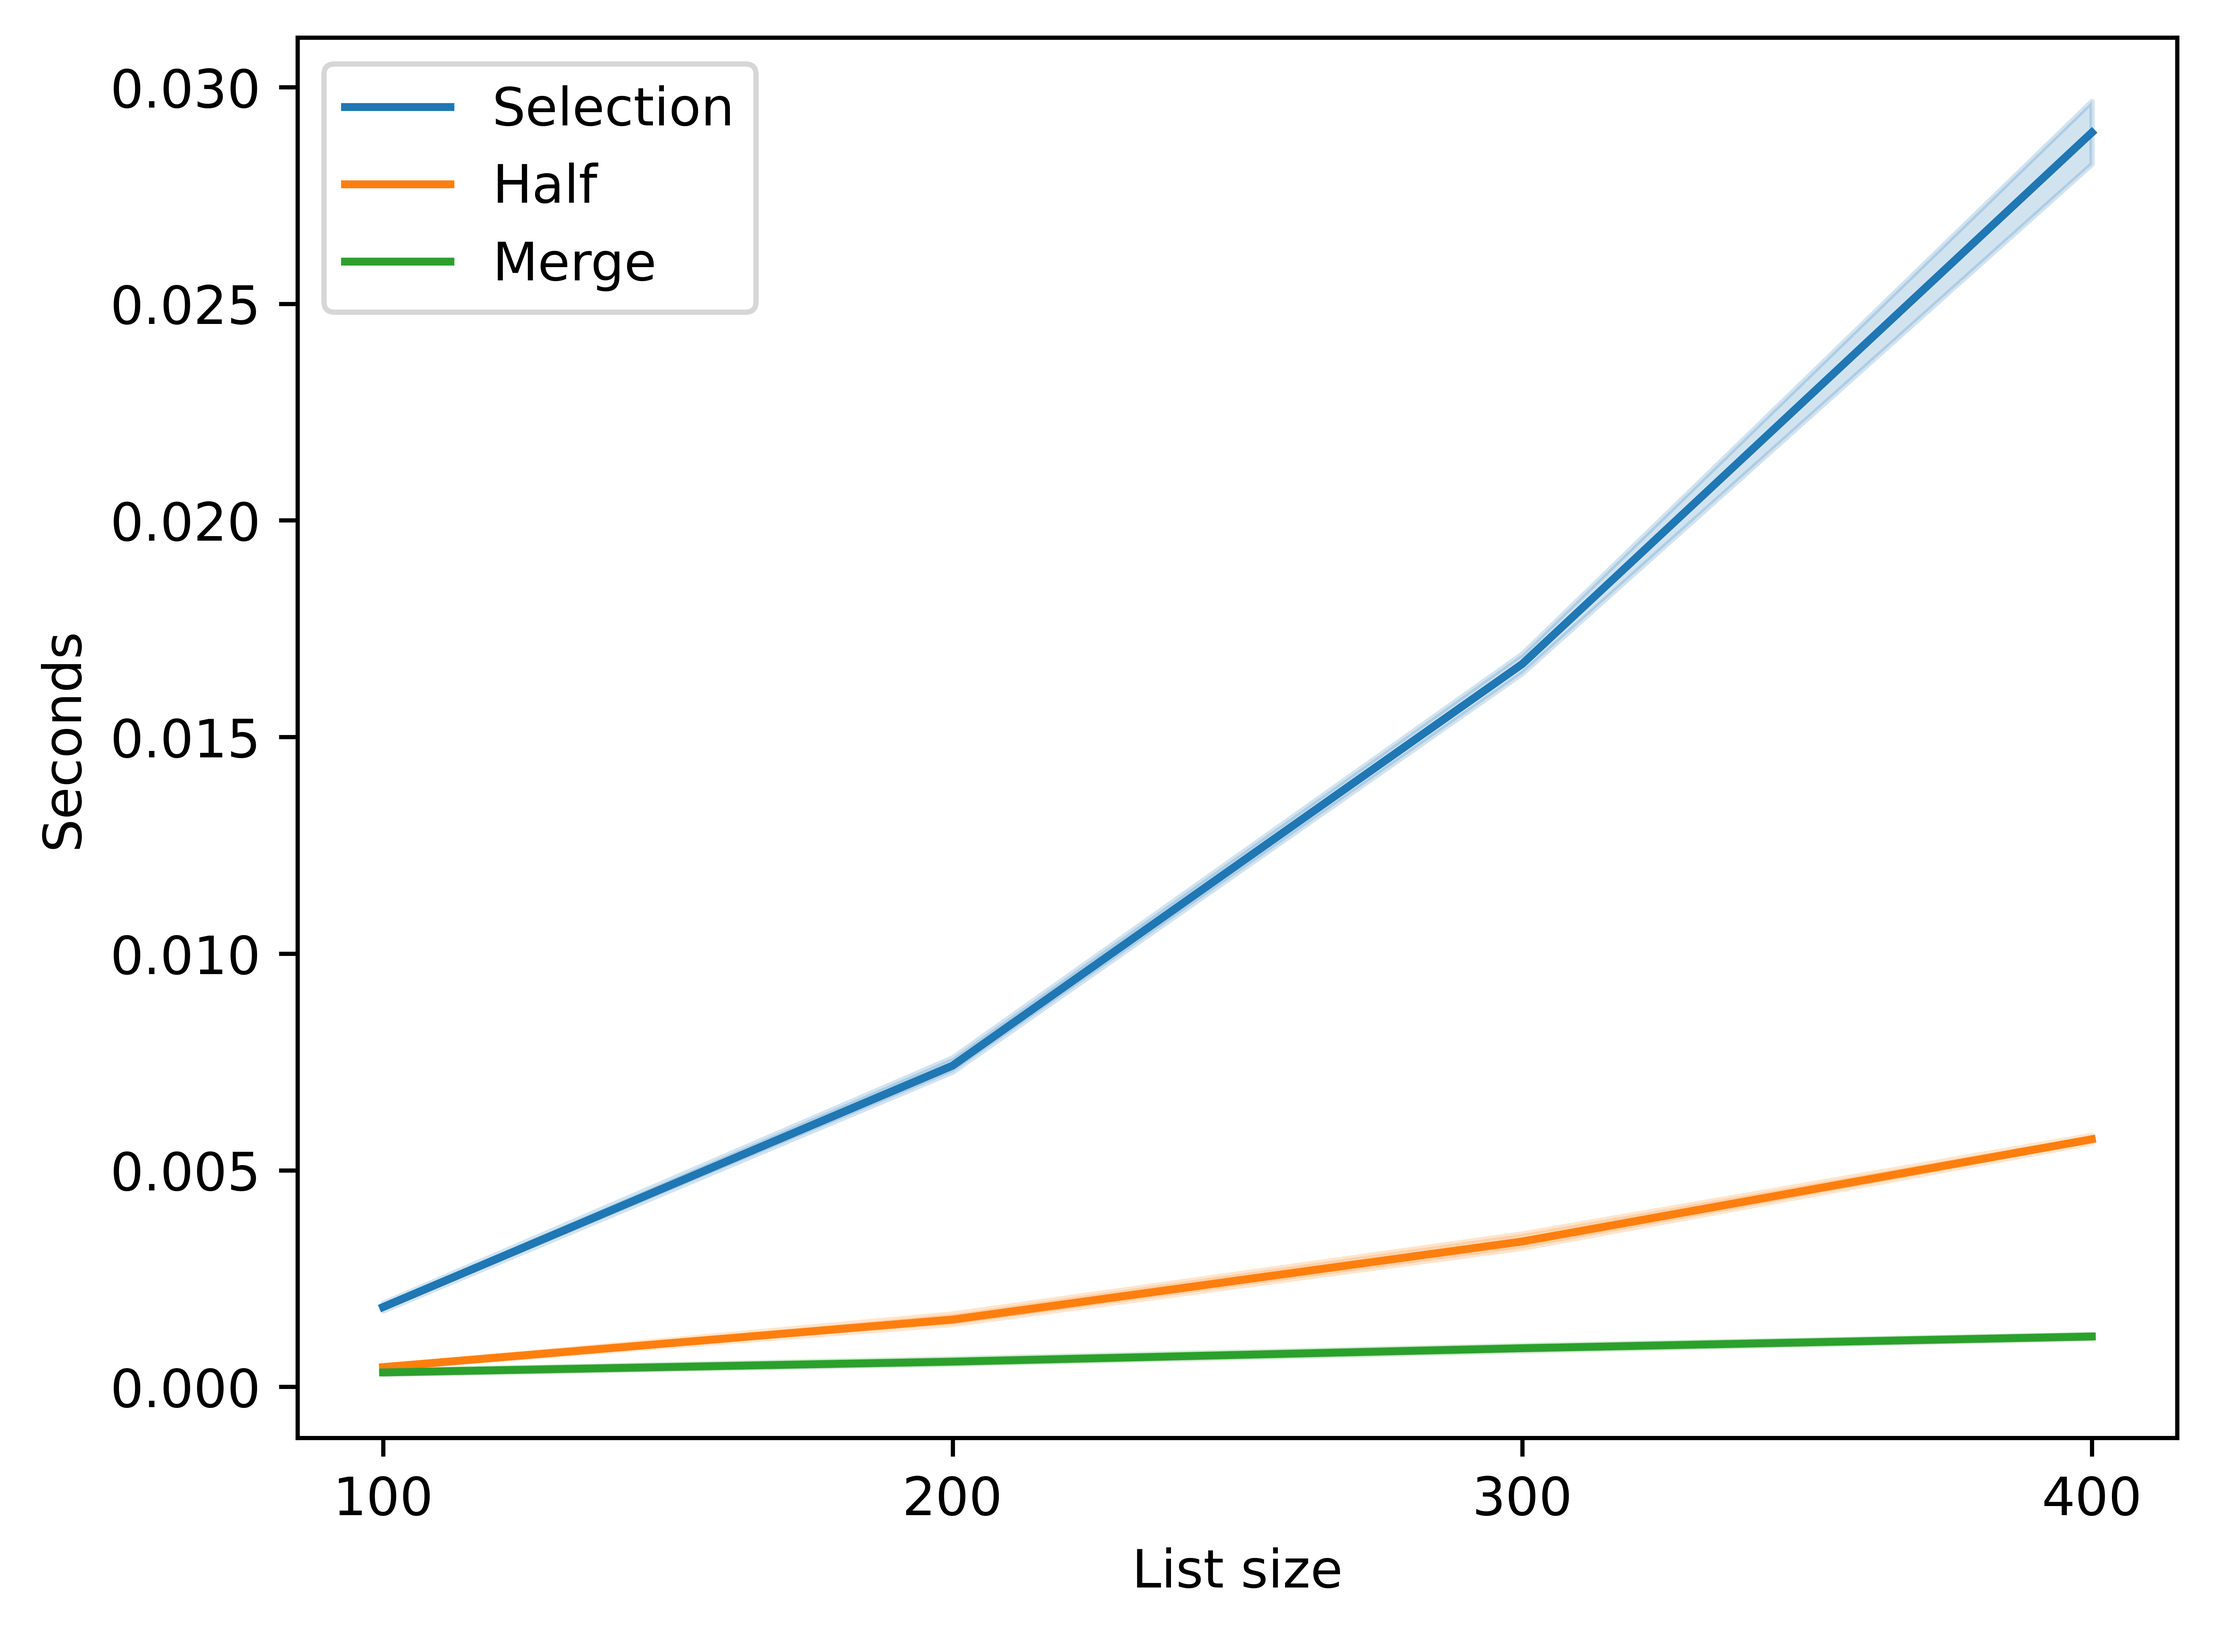
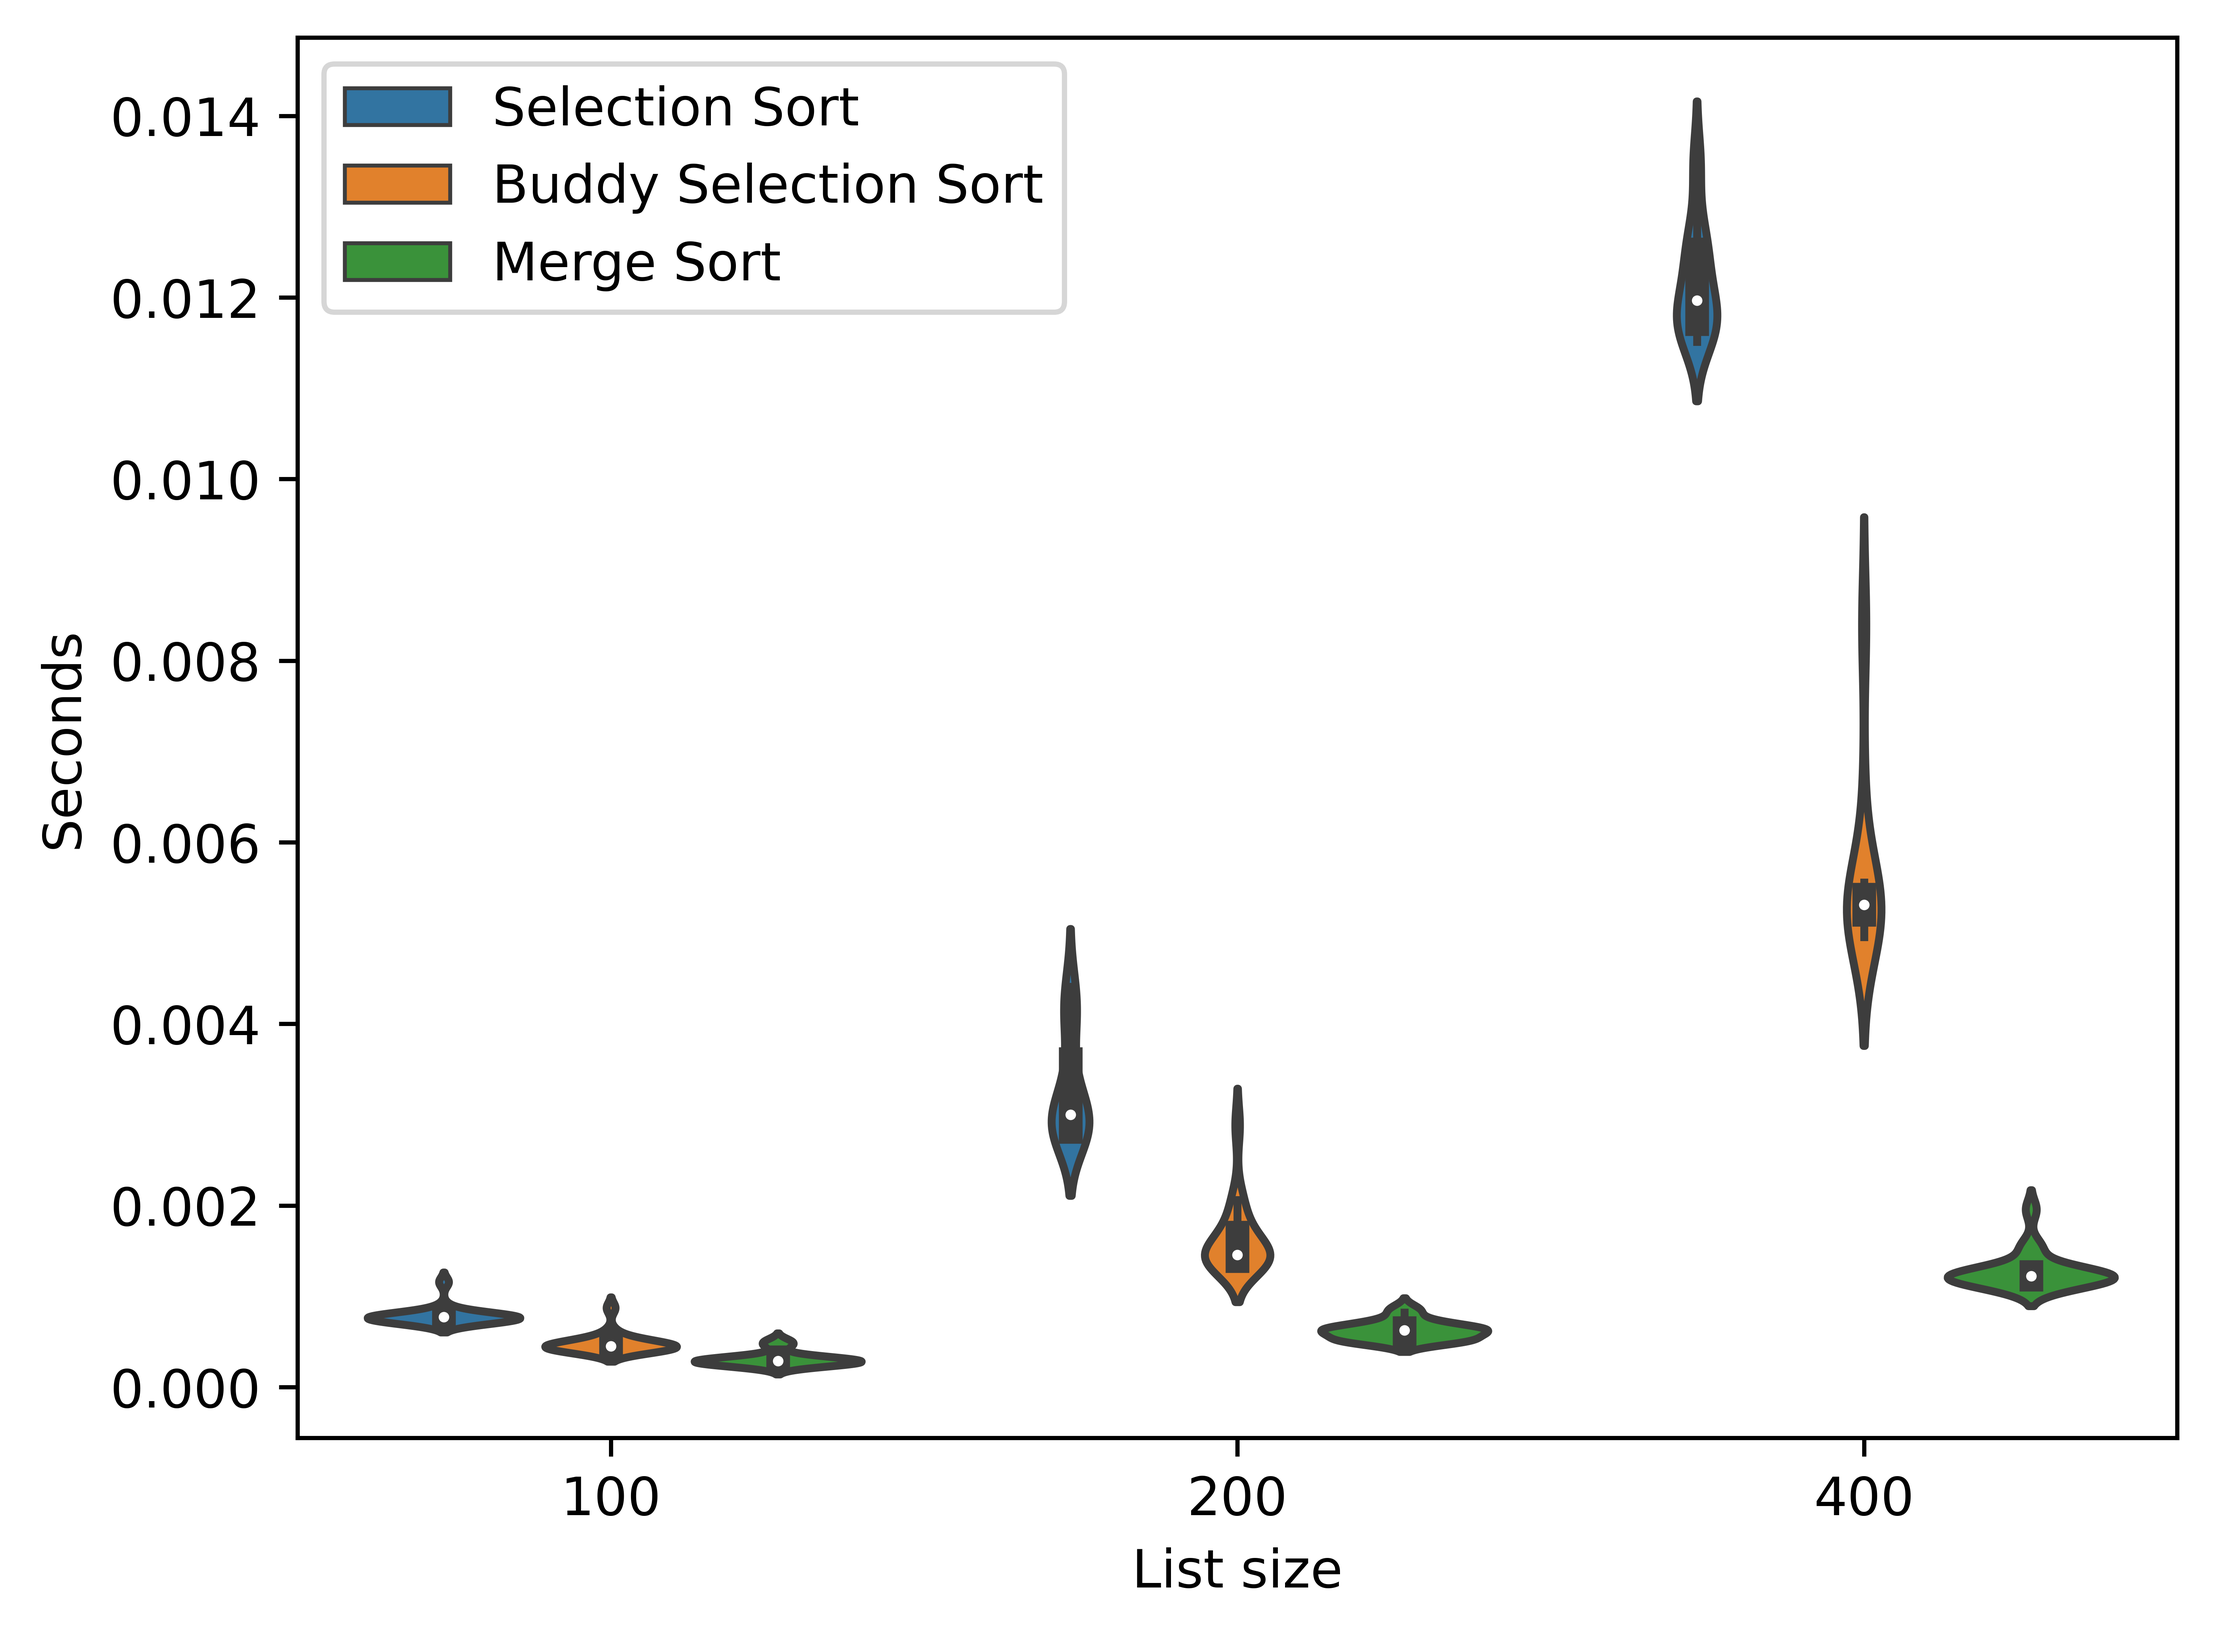
added comments

diff --git a/sort-cross-comp.py b/sort-cross-comp.py
@@ -14,42 +14,59 @@ import numpy as np
 import pandas as pd
 import time
 
-# loop through differnt files that exist
+# selection sort implementation
 def SelectionSort(nums):
+    # start tracking time
     tic = time.perf_counter()
+
+    # iterate through all list except the last element
     for low in range(len(nums)-1):
         mp = low
-        for i in range(low + 1, len(nums)):
+        # sort through current unsorted list
+        for i in range(low+1, len(nums)):
+            # compare and swap if smaller element is found
             if nums[i] < nums[mp]:
                 mp = i
-            nums[low],nums[mp] = nums[mp],nums[low]
+        # swap start of unsorted list element with the the min element found in the same portion
+        (nums[low],nums[mp]) = (nums[mp],nums[low])
 
     # return time difference
-    return time.perf_counter() - tic
+    diff = time.perf_counter() - tic
+    # check to see if sorted
+    print('sorted:', all(nums[i] <= nums[i+1] for i in range(len(nums) - 1)))
+    return diff
 
-# selection sort with one split
-def SelectionSplit(l1, l2):
+# buddy selection sort: split list -> selection sort on both -> merge sorted lists
+def SelectionSplit(nums,size):
 
     # start time
-    final = []
-    start1,start2 = 0,0
     tic = time.perf_counter()
+    # list when we merge two lists back together
+    final = []
+    # iterators for each list half
+    start1,start2 = 0,0
+    # split lists
+    l1,l2 = nums[:size//2],nums[size//2:]
 
+    # perform selection sort on first half
     for low in range(len(l1)-1):
         mp = low
         for i in range(low + 1, len(l1)):
             if l1[i] < l1[mp]:
                 mp = i
-        l1[low],l1[mp] = l1[mp],l1[low]
+        (l1[low],l1[mp]) = (l1[mp],l1[low])
 
+    # perform selection sort on second half
     for low in range(len(l2)-1):
         mp = low
         for i in range(low + 1, len(l2)):
             if l2[i] < l2[mp]:
                 mp = i
-        l2[low],l2[mp] = l2[mp],l2[low]
+        (l2[low],l2[mp]) = (l2[mp],l2[low])
 
-    while start1 != len(l1) and start2 != len(l2):
+    # merge both sorted lists back together
+    # while we have elements in either to merge
+    while start1 < len(l1) and start2 < len(l2):
         # check if l1 is smaller
         if l1[start1] < l2[start2]:
             final.append(l1[start1])
@@ -58,25 +75,34 @@ def SelectionSplit(l1, l2):
             final.append(l2[start2])
             start2+= 1
 
-    # get remaining vals in l1
+    # add remaining elements from first half split
     while start1 < len(l1):
         final.append(l1[start1])
         start1+= 1
 
-    # get remaining vals in l2
+    # add remaining elements from second half split
     while start2 < len(l2):
         final.append(l2[start2])
         start2+= 1
 
-    return time.perf_counter() - tic
+    # record time difference
+    diff = time.perf_counter() - tic
+    # quick check to make sure actually sorted
+    print('sorted:', all(final[i] <= final[i+1] for i in range(len(final) - 1)))
+
+    return diff
 
 # merge sort
 def MergeSort(nums):
-    # recursive step
+    # recursive step if we have more than one element
+    # stoping case is when we have only 1 element
     if 1 < len(nums):
+        # split the lists
         a,b = nums[:len(nums)//2],nums[len(nums)//2:]
+        # recursion
         MergeSort(a)
         MergeSort(b)
+        # merge
         Merge(a,b,nums)
 
 # merger
@@ -84,7 +110,9 @@ def Merge(l1,l2,l3):
     # starting positions
     start1,start2,start3 = 0,0,0
 
-    while start1 != len(l1) and start2 != len(l2):
+    # merge both sorted lists back together
+    # while we have elements in either to merge
+    while start1 < len(l1) and start2 < len(l2):
         # check if l1 is smaller
         if l1[start1] < l2[start2]:
             l3[start3] = l1[start1]
@@ -94,94 +122,135 @@ def Merge(l1,l2,l3):
             start2+= 1
         start3+= 1
 
-    # get remaining vals in l1
+    # add remaining elements from first half split
     while start1 < len(l1):
         l3[start3] = l1[start1]
         start1+= 1
         start3+= 1
 
-    # get remaining vals in l2
+    # add remaining elements from second half split
     while start2 < len(l2):
         l3[start3] = l2[start2]
         start2+= 1
         start3+= 1
 
-def main():
-    # set seed so we can get consistent results
-    np.random.seed(94)
-    # list of list sizes we care about
-    # sizes = [5,10,15,20] # small
-    sizes = [100,200,300,400] # big
-    times,N,sorter = [],[],[]
-    upper = 100000000
-    reps = 10
+def BigOrSmall(bos):
+    # data that will depend on big or small run
+    sizes = []
+    file_name = ''
+    # max random number possible
+    upper = 1000000
+    # number of replicates
+    reps = 20
 
-    # standard selection sort reps
+    # set seed so we can get consistent results
+    # you can change this to get different random lists
+    if bos: # big
+        # random seed for reproducability
+        np.random.seed(90)
+        # different sizes we are assessing
+        sizes = [100,200,400]
+        # name of image we are saving
+        file_name = 'big-sort-comp.png'
+    else: # small
+        # random seed for reproducability
+        np.random.seed(94)
+        # different sizes we are assessing
+        sizes = [5,10,15,20]
+        # name of image we are saving
+        file_name = 'small-sort-comp.png'
+
+
+    # data tracking
+    times,N,sorter = [],[],[]
+    # max random number possible
+    upper = 1000000
+    # number of replicates
+    reps = 20
+
+    # standard selection sort loop
     for i in range(len(sizes)):
+        # what size are we on?
         size = sizes[i]
         print('size:',size)
+
+        # get multiple data replicates
         for j in range(reps):
             print('rep:',j)
-            # get random list of numbers
-            nums = np.random.randint(0,upper, size)
 
-            # sort
-            t = SelectionSort(nums)
+            # get random list of numbers of a designated size and range [0,upper]
+            ran = np.random.randint(0,upper, size)
+            # sort & time
+            t = SelectionSort(ran)
 
-            #record data
+            #record data for plots
             times.append(t)
             N.append(size)
-            sorter.append('Selection')
+            sorter.append('Selection Sort')
         print()
 
-    # single split selection sort reps
+    # buddy selection sort loop
     for i in range(len(sizes)):
+        # what size are we on?
         size = sizes[i]
-        print(size)
+        print('size:',size)
+
+        # get multiple data replicates
         for j in range(reps):
             print('rep:',j)
-            # get random list of numbers
+
+            # get random list of numbers of a designated size and range [0,upper]
             nums = np.random.randint(0,upper, size)
-            l1,l2 = nums[:size//2],nums[size//2:]
+            # sort & time
+            t = SelectionSplit(nums,size)
 
-            # sort
-            t = SelectionSplit(l1,l2)
-
-            #record data
+            #record data for plots
             times.append(t)
             N.append(size)
-            sorter.append('Half')
+            sorter.append('Buddy Selection Sort')
+
         print()
 
-    # single split selection sort reps
+    # merge sort
     for i in range(len(sizes)):
+        # what size are we on?
         size = sizes[i]
-        print(size)
+        print('size:',size)
+
+        # get multiple data replicates
         for j in range(reps):
             print('rep:',j)
+
             # get random list of numbers
             nums = np.random.randint(0,upper, size)
 
-            # sort
+            # sort & time
             tic = time.perf_counter()
             MergeSort(nums)
             toc = time.perf_counter()
 
+            # make sure the list is sorted
+            print('sorted:', all(nums[i] <= nums[i+1] for i in range(len(nums) - 1)))
+
             #record data
             times.append(toc - tic)
             N.append(size)
-            sorter.append('Merge')
+            sorter.append('Merge Sort')
         print()
 
-    # plot data in a violin plot
+    # create pandas data frame, as seaborn expects that
     df = pd.DataFrame({'List size': N, 'Seconds': times, 'Sort': sorter})
-    sea.lineplot(data=df, x='List size', y="Seconds", hue='Sort')
-    plt.xticks(sizes)
+    # plot into a violin plot
+    sea.violinplot(data=df, x='List size', y="Seconds", hue='Sort')
     plt.legend(loc='upper left')
-    
-    # plt.savefig('small-sort-comp.png',dpi=500,bbox_inches='tight')
-    plt.savefig('big-sort-comp.png',dpi=1000,bbox_inches='tight')
-    # plt.show()
+    #save
+    plt.savefig(file_name,dpi=1000,bbox_inches='tight')
+    # plt.show() # uncomment if you want to see plot
+    plt.clf()
+
+def main():
+    BigOrSmall(False)
+    BigOrSmall(True)
 
 if __name__ == "__main__":
     main()
